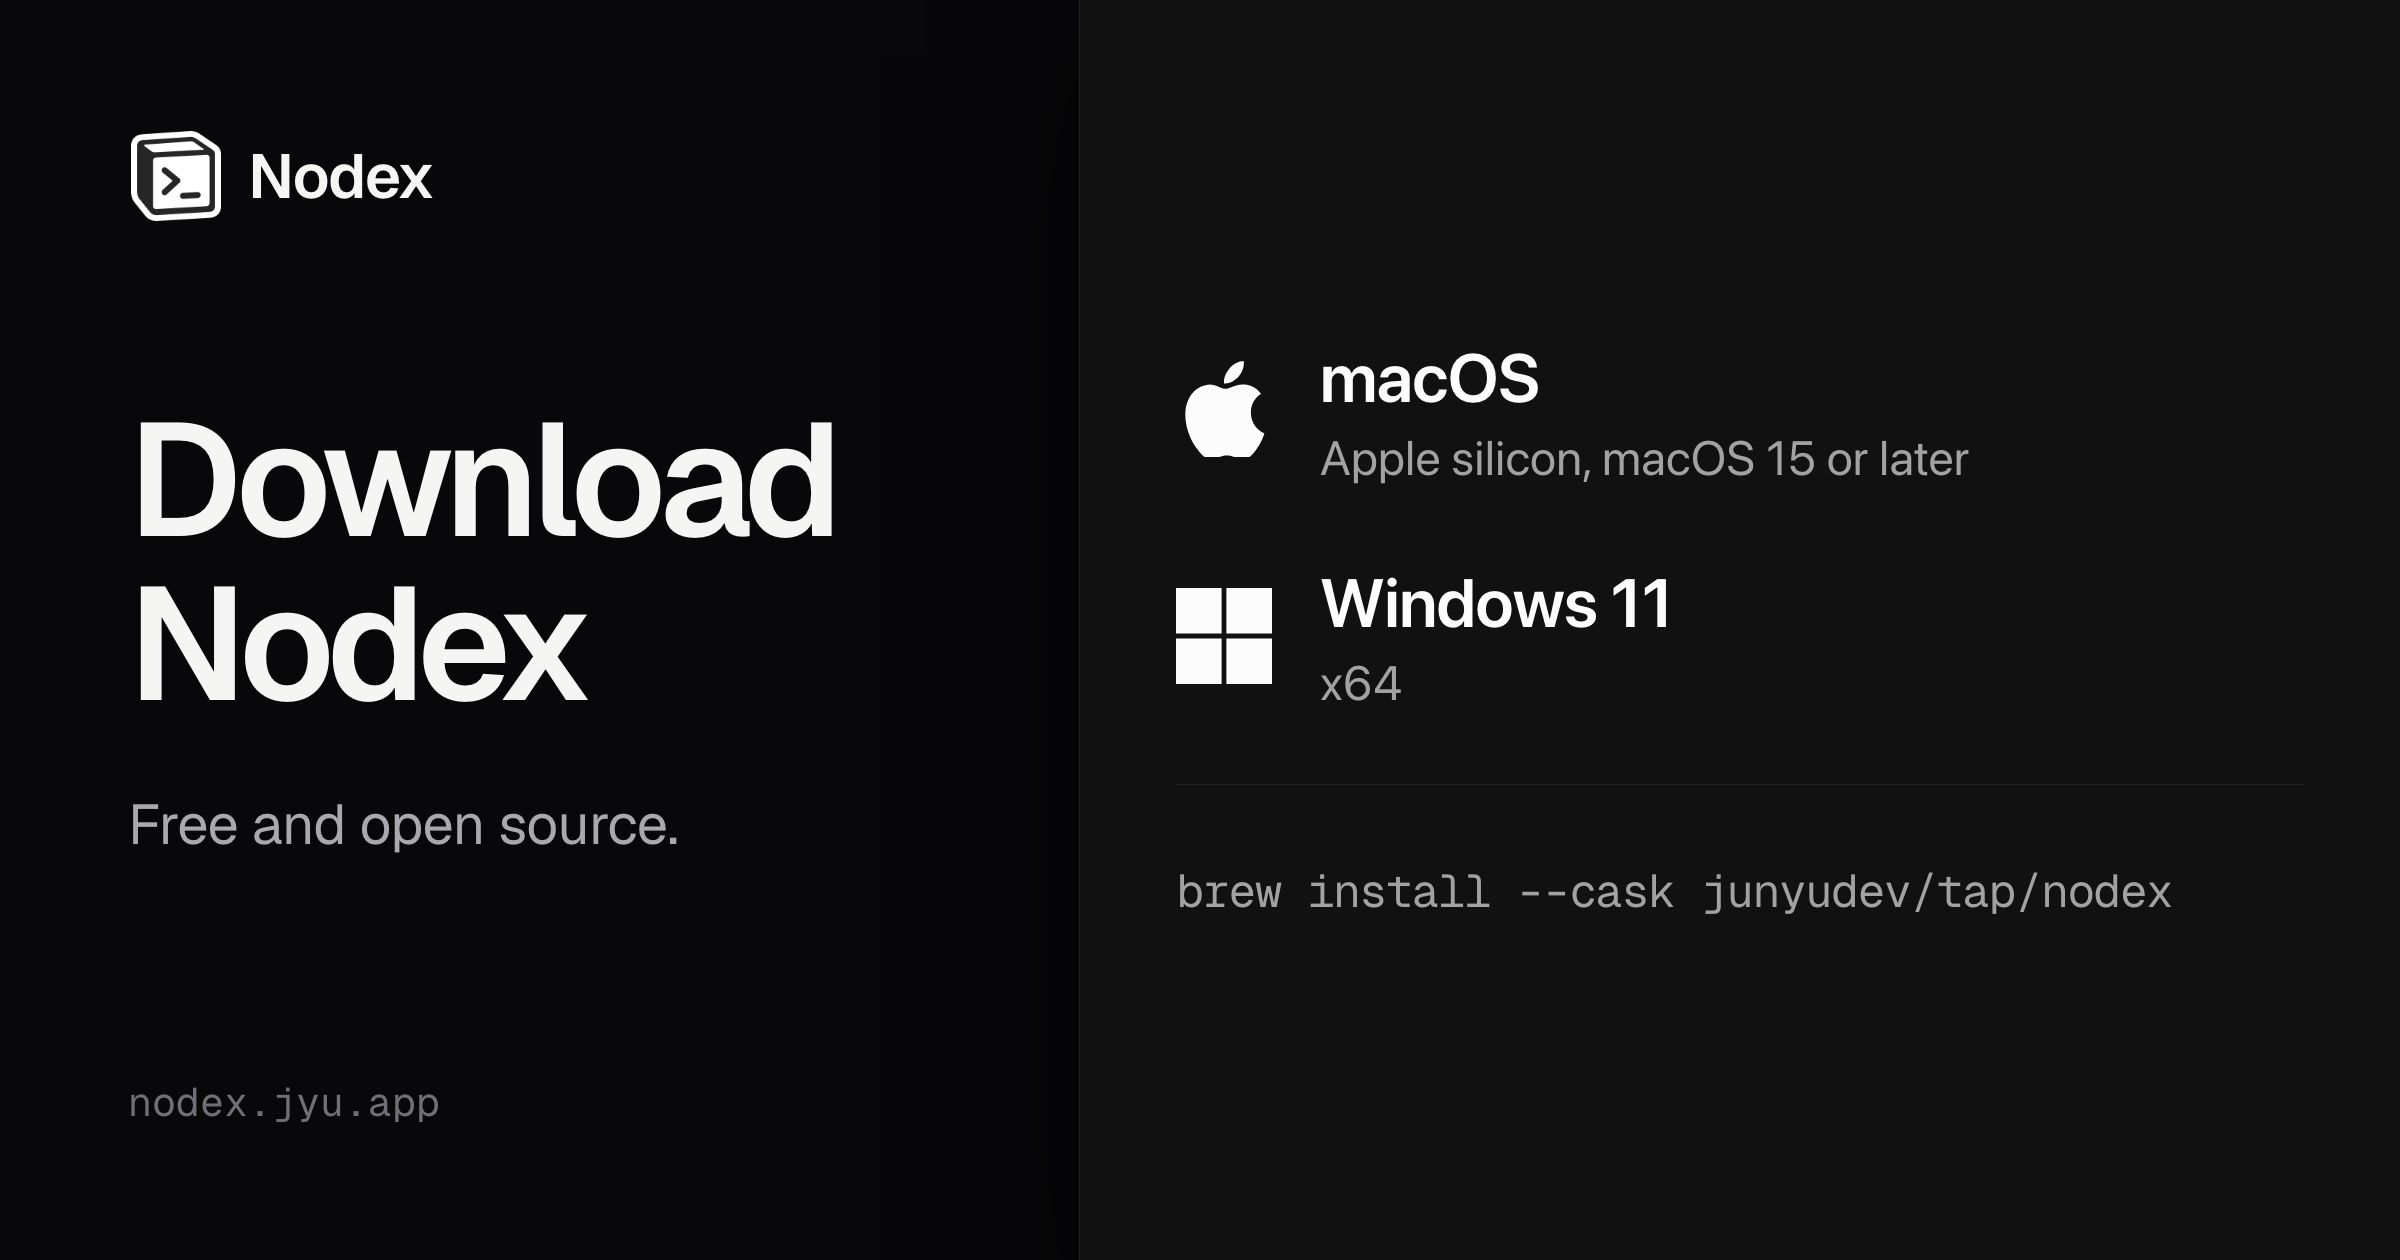
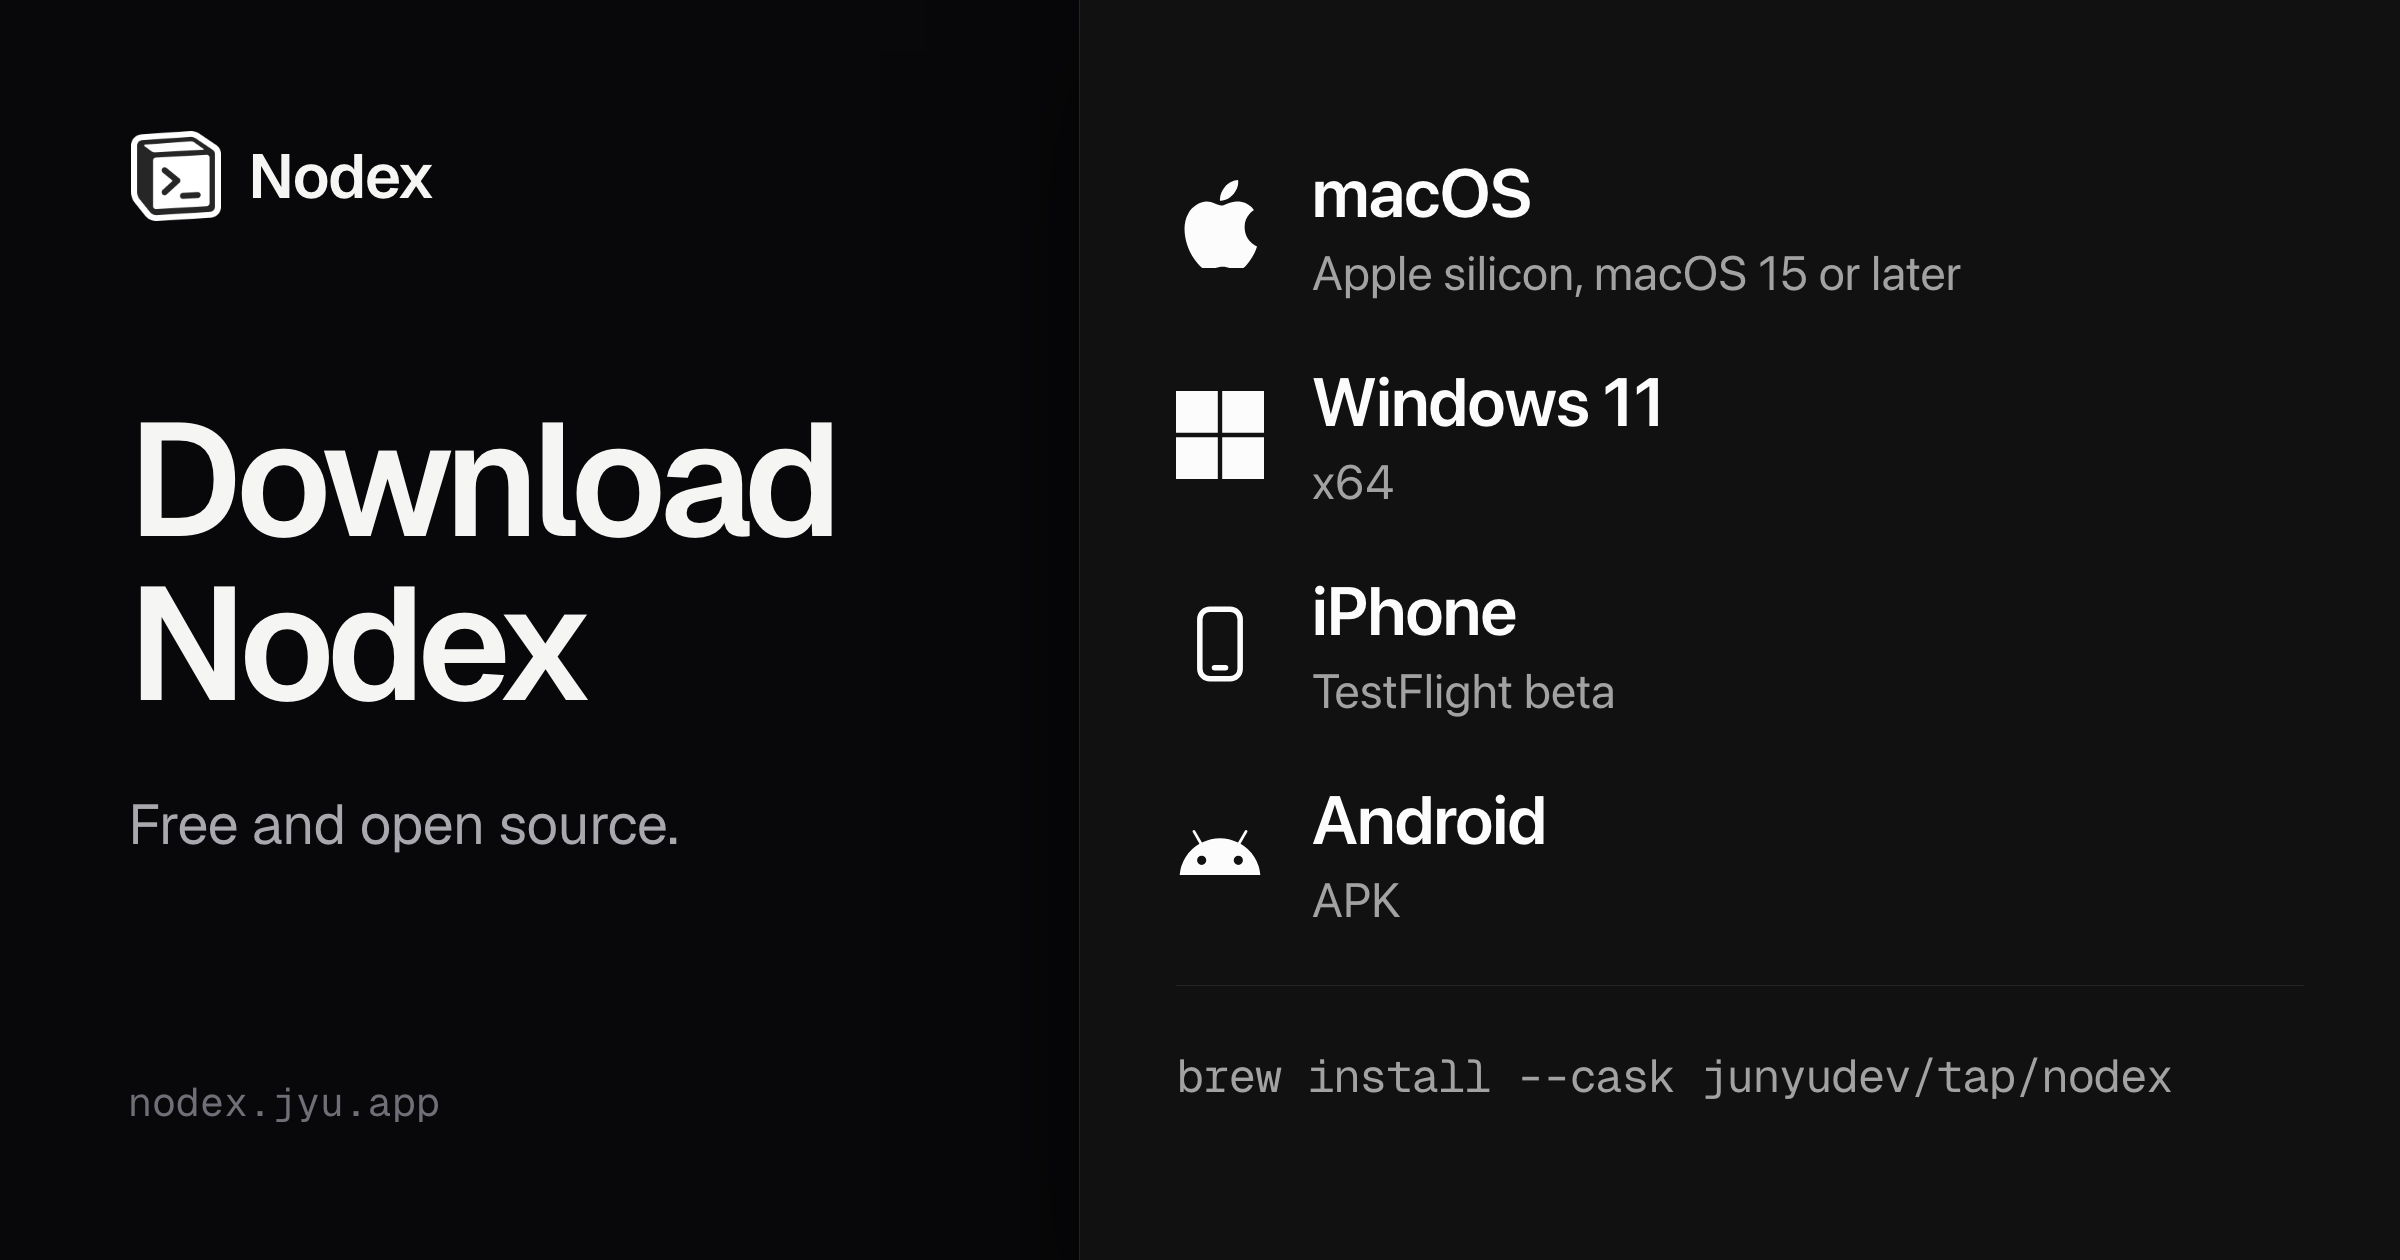
feat(landing): show Nodex Mobile on the download page's social card
A shared download link previewed only the desktop builds, though the page also offers the iPhone and Android apps. The card now lists all four, and its alt text says so.

diff --git a/packages/landing/src/lib/social-cards.ts b/packages/landing/src/lib/social-cards.ts
@@ -12,7 +12,7 @@ export const SOCIAL_CARDS = {
   },
   download: {
     file: "og-download.png",
-    alt: "Download Nodex, free and open source, for macOS on Apple silicon and Windows 11 on x64, or with Homebrew.",
+    alt: "Download Nodex, free and open source, for macOS on Apple silicon and Windows 11 on x64, or with Homebrew, and Nodex Mobile for iPhone through TestFlight and Android as an APK.",
   },
   changelog: {
     file: "og-changelog.png",

diff --git a/docs/landing-site.md b/docs/landing-site.md
@@ -303,7 +303,9 @@ again with `vp run capture:landing` after changing a demo the README shows.
 
 A link to the site previews as a social card. A page names its card through `BaseLayout`'s
 `socialCard`, and `SOCIAL_CARDS` owns each card's published file and alt text, so the tags and the
-recorder read one list. Home, Download and Changelog each have a card; Privacy and Terms use Home's.
+recorder read one list. Home, Download and Changelog each have a card; Privacy and Terms use Home's. The Download card lists every
+build the page offers: the desktop app for macOS and Windows, and Nodex Mobile for iPhone and
+Android.
 
 The home card shows what sets Nodex apart: every agent at work together, in Aerial view. Two chats
 fill its window, each with its tree of subagents, so all four peers appear doing something: a
